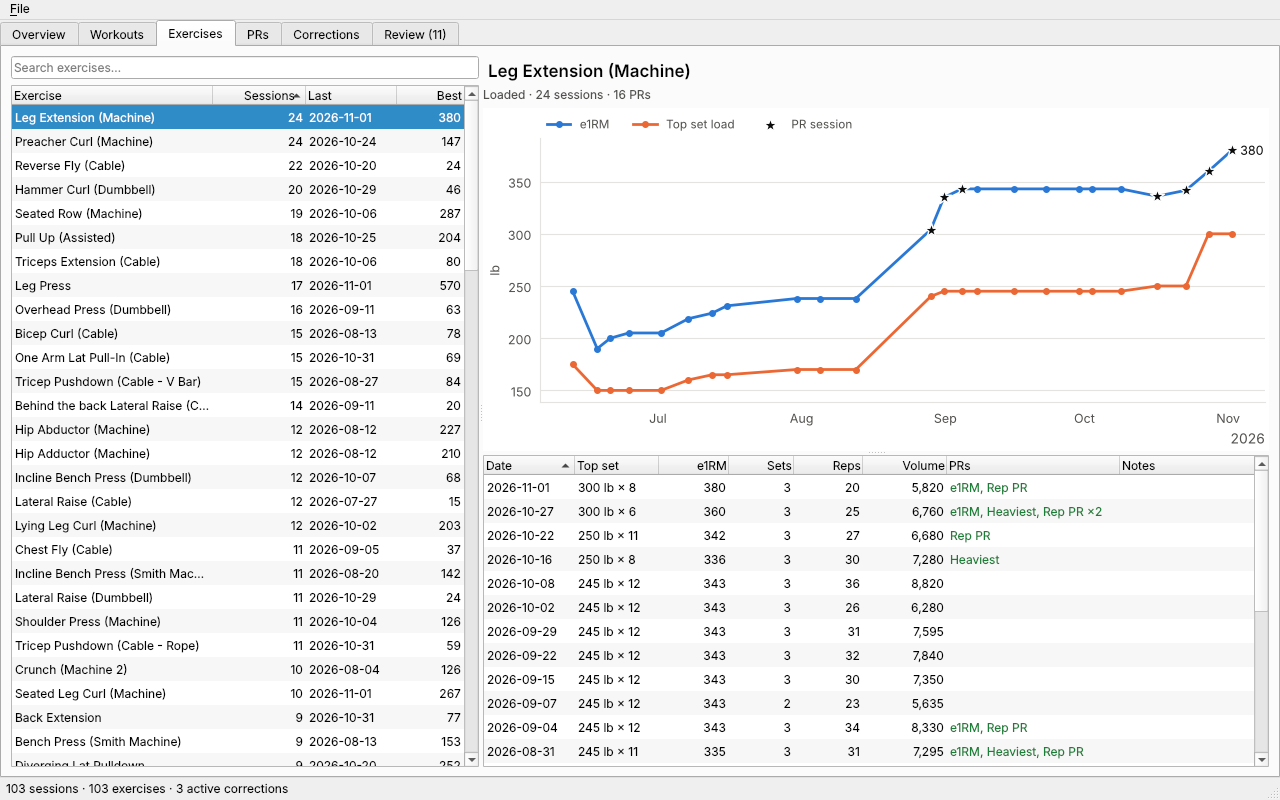
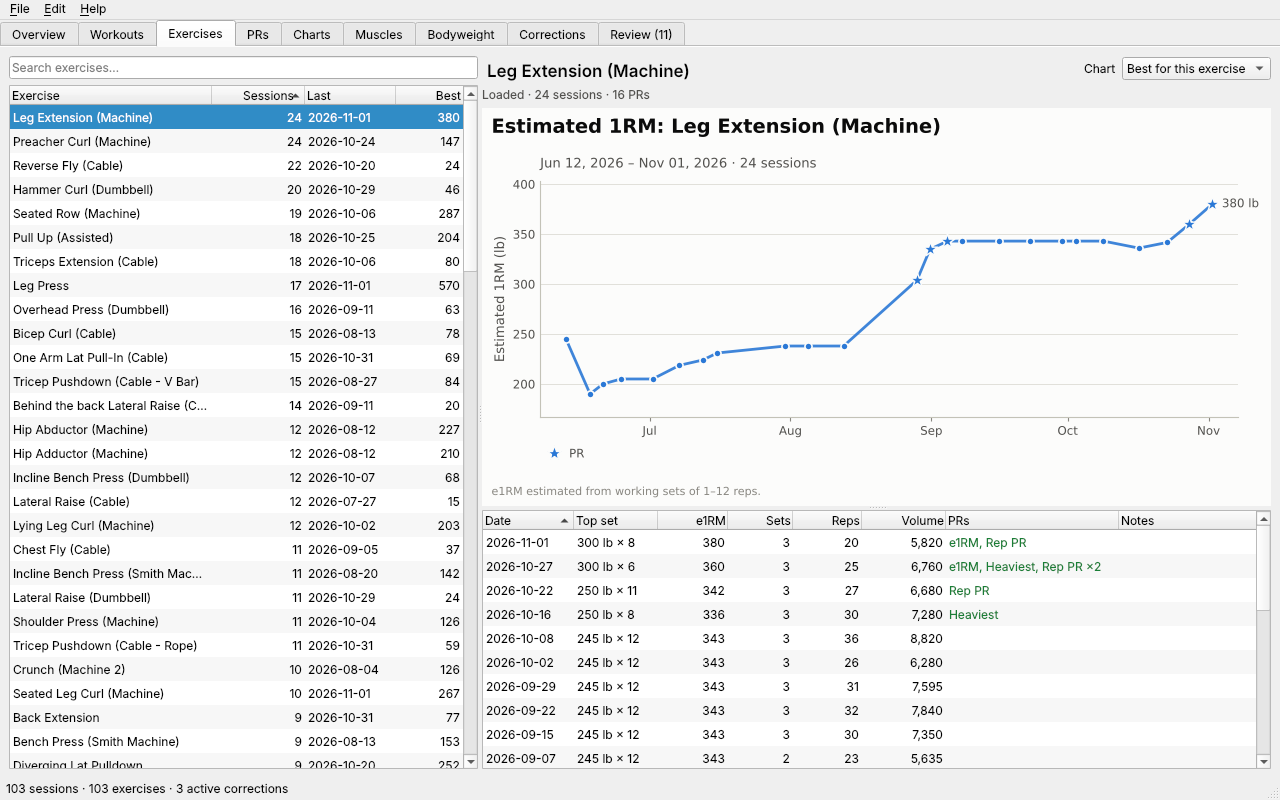
GUI: refuse actions while reloading, new screenshots, lint-clean GUI
Replace gui_review.png with gui_charts.png and gui_muscles.png, and retake
the overview and exercises screenshots with the shared charts.

Claude-Session: https://claude.ai/code/session_01Qiu6FFdUcYzvgXsnnm1pTB

diff --git a/src/fitness_aggregator/gui/window.py b/src/fitness_aggregator/gui/window.py
@@ -5,17 +5,42 @@ from __future__ import annotations
 import html
 import io
 import time
-from typing import Callable
+from collections.abc import Callable
 
 from matplotlib.backends.backend_agg import FigureCanvasAgg
 from matplotlib.backends.backend_qtagg import FigureCanvasQTAgg
 from PySide6.QtCore import QByteArray, QItemSelectionModel, QObject, QRunnable, QSettings, Qt, QThreadPool, Signal
 from PySide6.QtGui import QAction, QKeySequence, QPainter, QPixmap
 from PySide6.QtWidgets import (
-    QAbstractItemView, QApplication, QCheckBox, QComboBox, QCompleter, QDialog, QDialogButtonBox,
-    QDoubleSpinBox, QFileDialog, QFormLayout, QFrame, QGridLayout, QGroupBox, QHBoxLayout, QHeaderView, QLabel,
-    QLineEdit, QMainWindow, QMessageBox, QProgressBar, QPushButton, QScrollArea, QSplitter, QStackedWidget,
-    QTableView, QTabWidget, QTextBrowser, QVBoxLayout, QWidget,
+    QAbstractItemView,
+    QApplication,
+    QCheckBox,
+    QComboBox,
+    QCompleter,
+    QDialog,
+    QDialogButtonBox,
+    QDoubleSpinBox,
+    QFileDialog,
+    QFormLayout,
+    QFrame,
+    QGridLayout,
+    QGroupBox,
+    QHBoxLayout,
+    QHeaderView,
+    QLabel,
+    QLineEdit,
+    QMainWindow,
+    QMessageBox,
+    QProgressBar,
+    QPushButton,
+    QScrollArea,
+    QSplitter,
+    QStackedWidget,
+    QTableView,
+    QTabWidget,
+    QTextBrowser,
+    QVBoxLayout,
+    QWidget,
 )
 
 from .. import corrections as corr
@@ -221,7 +246,7 @@ class ChartView(QScrollArea):
 # --- tabs ------------------------------------------------------------------------------------
 
 class Tab(QWidget):
-    def __init__(self, win: "MainWindow"):
+    def __init__(self, win: MainWindow):
         super().__init__()
         self.win = win
 
@@ -1031,7 +1056,7 @@ class BodyweightTab(Tab):
 class WelcomePage(QWidget):
     """Shown instead of the tabs while the database has no workouts."""
 
-    def __init__(self, win: "MainWindow"):
+    def __init__(self, win: MainWindow):
         super().__init__()
         outer = QVBoxLayout(self)
         outer.addStretch(1)
@@ -1150,7 +1175,7 @@ class MainWindow(QMainWindow):
         self.all_tabs = (self.overview, self.workouts, self.exercises, self.prs, self.charts, self.muscles,
                          self.bodyweight, self.corrections, self.review)
         for tab, name in zip(self.all_tabs, ("Overview", "Workouts", "Exercises", "PRs", "Charts", "Muscles",
-                                             "Bodyweight", "Corrections", "Review")):
+                                             "Bodyweight", "Corrections", "Review"), strict=True):
             tab.setObjectName(name.lower())
             self.tabs.addTab(tab, name)
         self.tabs.currentChanged.connect(self._tab_changed)
@@ -1340,7 +1365,12 @@ class MainWindow(QMainWindow):
         (self.review.flags_view if part == "flags" else self.review.groups_view).setFocus()
 
     def run_action(self, title: str, action: Callable[[], str]) -> str | None:
-        """Run a Store action, report the result, and reload everything."""
+        """Run a Store action, report the result, and reload everything.
+
+        Refused while a reload is still running: the rows on screen may be out of date."""
+        if self.is_busy:
+            self.statusBar().showMessage("Still loading, try again in a moment.", 5000)
+            return None
         try:
             message = action()
         except (ValueError, KeyError) as exc:
@@ -1364,7 +1394,7 @@ class MainWindow(QMainWindow):
 
         def failed(exc):
             if not isinstance(exc, (StrongParseError, OSError, ValueError)):
-                raise exc
+                return self._unexpected(title, exc)
             self.statusBar().showMessage("Import failed.", 8000)
             self.dialogs.error(title, f"{path}: {exc}")
             return None
@@ -1411,7 +1441,7 @@ class MainWindow(QMainWindow):
 
         def failed(exc):
             if not isinstance(exc, HEALTH_ERRORS + (ValueError,)):
-                raise exc
+                return self._unexpected(title, exc)
             self.statusBar().showMessage("Import failed.", 8000)
             self.dialogs.error(title, f"{path}: {exc}")
             return None
@@ -1440,6 +1470,13 @@ class MainWindow(QMainWindow):
         self.refresh()
         self.dialogs.info(title, message)
         return message
+
+    def _unexpected(self, title: str, exc: BaseException):
+        """A bug, not a bad file: raise it in synchronous mode (tests); say so in the app."""
+        if not self.background:
+            raise exc
+        self.dialogs.error(title, f"Something went wrong: {type(exc).__name__}: {exc}")
+        return None
 
     def closeEvent(self, event):
         self._save_settings()

diff --git a/tests/test_gui.py b/tests/test_gui.py
@@ -15,7 +15,6 @@ import pytest
 pytest.importorskip("PySide6")
 pytest.importorskip("matplotlib")
 
-from helpers import REAL_EXPORT, workout_rows, write_export
 from PySide6.QtCore import QSettings, Qt
 from PySide6.QtWidgets import QApplication
 from typer.testing import CliRunner
@@ -30,6 +29,7 @@ from fitness_aggregator.gui.window import HIGH_BG, LOW_BG, Dialogs, MainWindow
 from fitness_aggregator.importers import parse_strong_csv
 from fitness_aggregator.settings import Settings
 from fitness_aggregator.store import Store
+from helpers import REAL_EXPORT, workout_rows, write_export
 
 TODAY = datetime(2026, 11, 5)
 HEALTH_EXPORT = Path(__file__).parent / "fixtures" / "apple_health_export.xml"
@@ -520,6 +520,8 @@ def test_background_refresh_keeps_the_window_responsive(make_window):
     third = next(r["key"] for r in w.review.flags_model.rows if r["set"] == "3")
     assert "Dismissed 1" in w.review.dismiss([third])
     assert w.is_busy and w.review.flags_model.rowCount() == 3
+    assert w.review.dismiss([third]) is None  # no actions on rows that are out of date
+    assert "Still loading" in w.statusBar().currentMessage()
     assert w.wait_until_idle(60)
     assert w.review.flags_model.rowCount() == 2
 

diff --git a/src/fitness_aggregator/gui/models.py b/src/fitness_aggregator/gui/models.py
@@ -3,8 +3,9 @@
 from __future__ import annotations
 
 import math
+from collections.abc import Callable
 from dataclasses import dataclass
-from typing import Any, Callable
+from typing import Any
 
 import pandas as pd
 from PySide6.QtCore import QAbstractTableModel, QModelIndex, Qt
@@ -13,6 +14,7 @@ from PySide6.QtGui import QColor
 LEFT = Qt.AlignLeft | Qt.AlignVCenter
 RIGHT = Qt.AlignRight | Qt.AlignVCenter
 
+NO_PARENT = QModelIndex()
 STATUS_COLORS = {"active": "#1a7f37", "reverted": "#a15c00", "stale": "#c62828", "obsolete": "#8a8984"}
 
 
@@ -103,10 +105,10 @@ class RowTableModel(QAbstractTableModel):
 
     # --- Qt API ----------------------------------------------------------------
 
-    def rowCount(self, parent=QModelIndex()) -> int:
+    def rowCount(self, parent=NO_PARENT) -> int:
         return 0 if parent.isValid() else len(self.rows)
 
-    def columnCount(self, parent=QModelIndex()) -> int:
+    def columnCount(self, parent=NO_PARENT) -> int:
         return 0 if parent.isValid() else len(self.columns)
 
     def headerData(self, section, orientation, role=Qt.DisplayRole):

diff --git a/src/fitness_aggregator/gui/controller.py b/src/fitness_aggregator/gui/controller.py
@@ -278,7 +278,7 @@ class Controller:
         self._history_cache: dict[str, tuple[pd.DataFrame, pd.DataFrame]] = {}
 
     @classmethod
-    def open(cls, db: str | Path | None = None, config: str | Path | None = None, **kwargs) -> "Controller":
+    def open(cls, db: str | Path | None = None, config: str | Path | None = None, **kwargs) -> Controller:
         """Same database and settings resolution as the CLI."""
         return cls(Store(db or default_db_path()), settings_mod.load(config), **kwargs)
 

diff --git a/src/fitness_aggregator/gui/app.py b/src/fitness_aggregator/gui/app.py
@@ -3,8 +3,8 @@
 from __future__ import annotations
 
 import argparse
-import sys
 import importlib.util
+import sys
 from pathlib import Path
 
 INSTALL_HINT = "pip install 'fitness_aggregator[gui]'"
